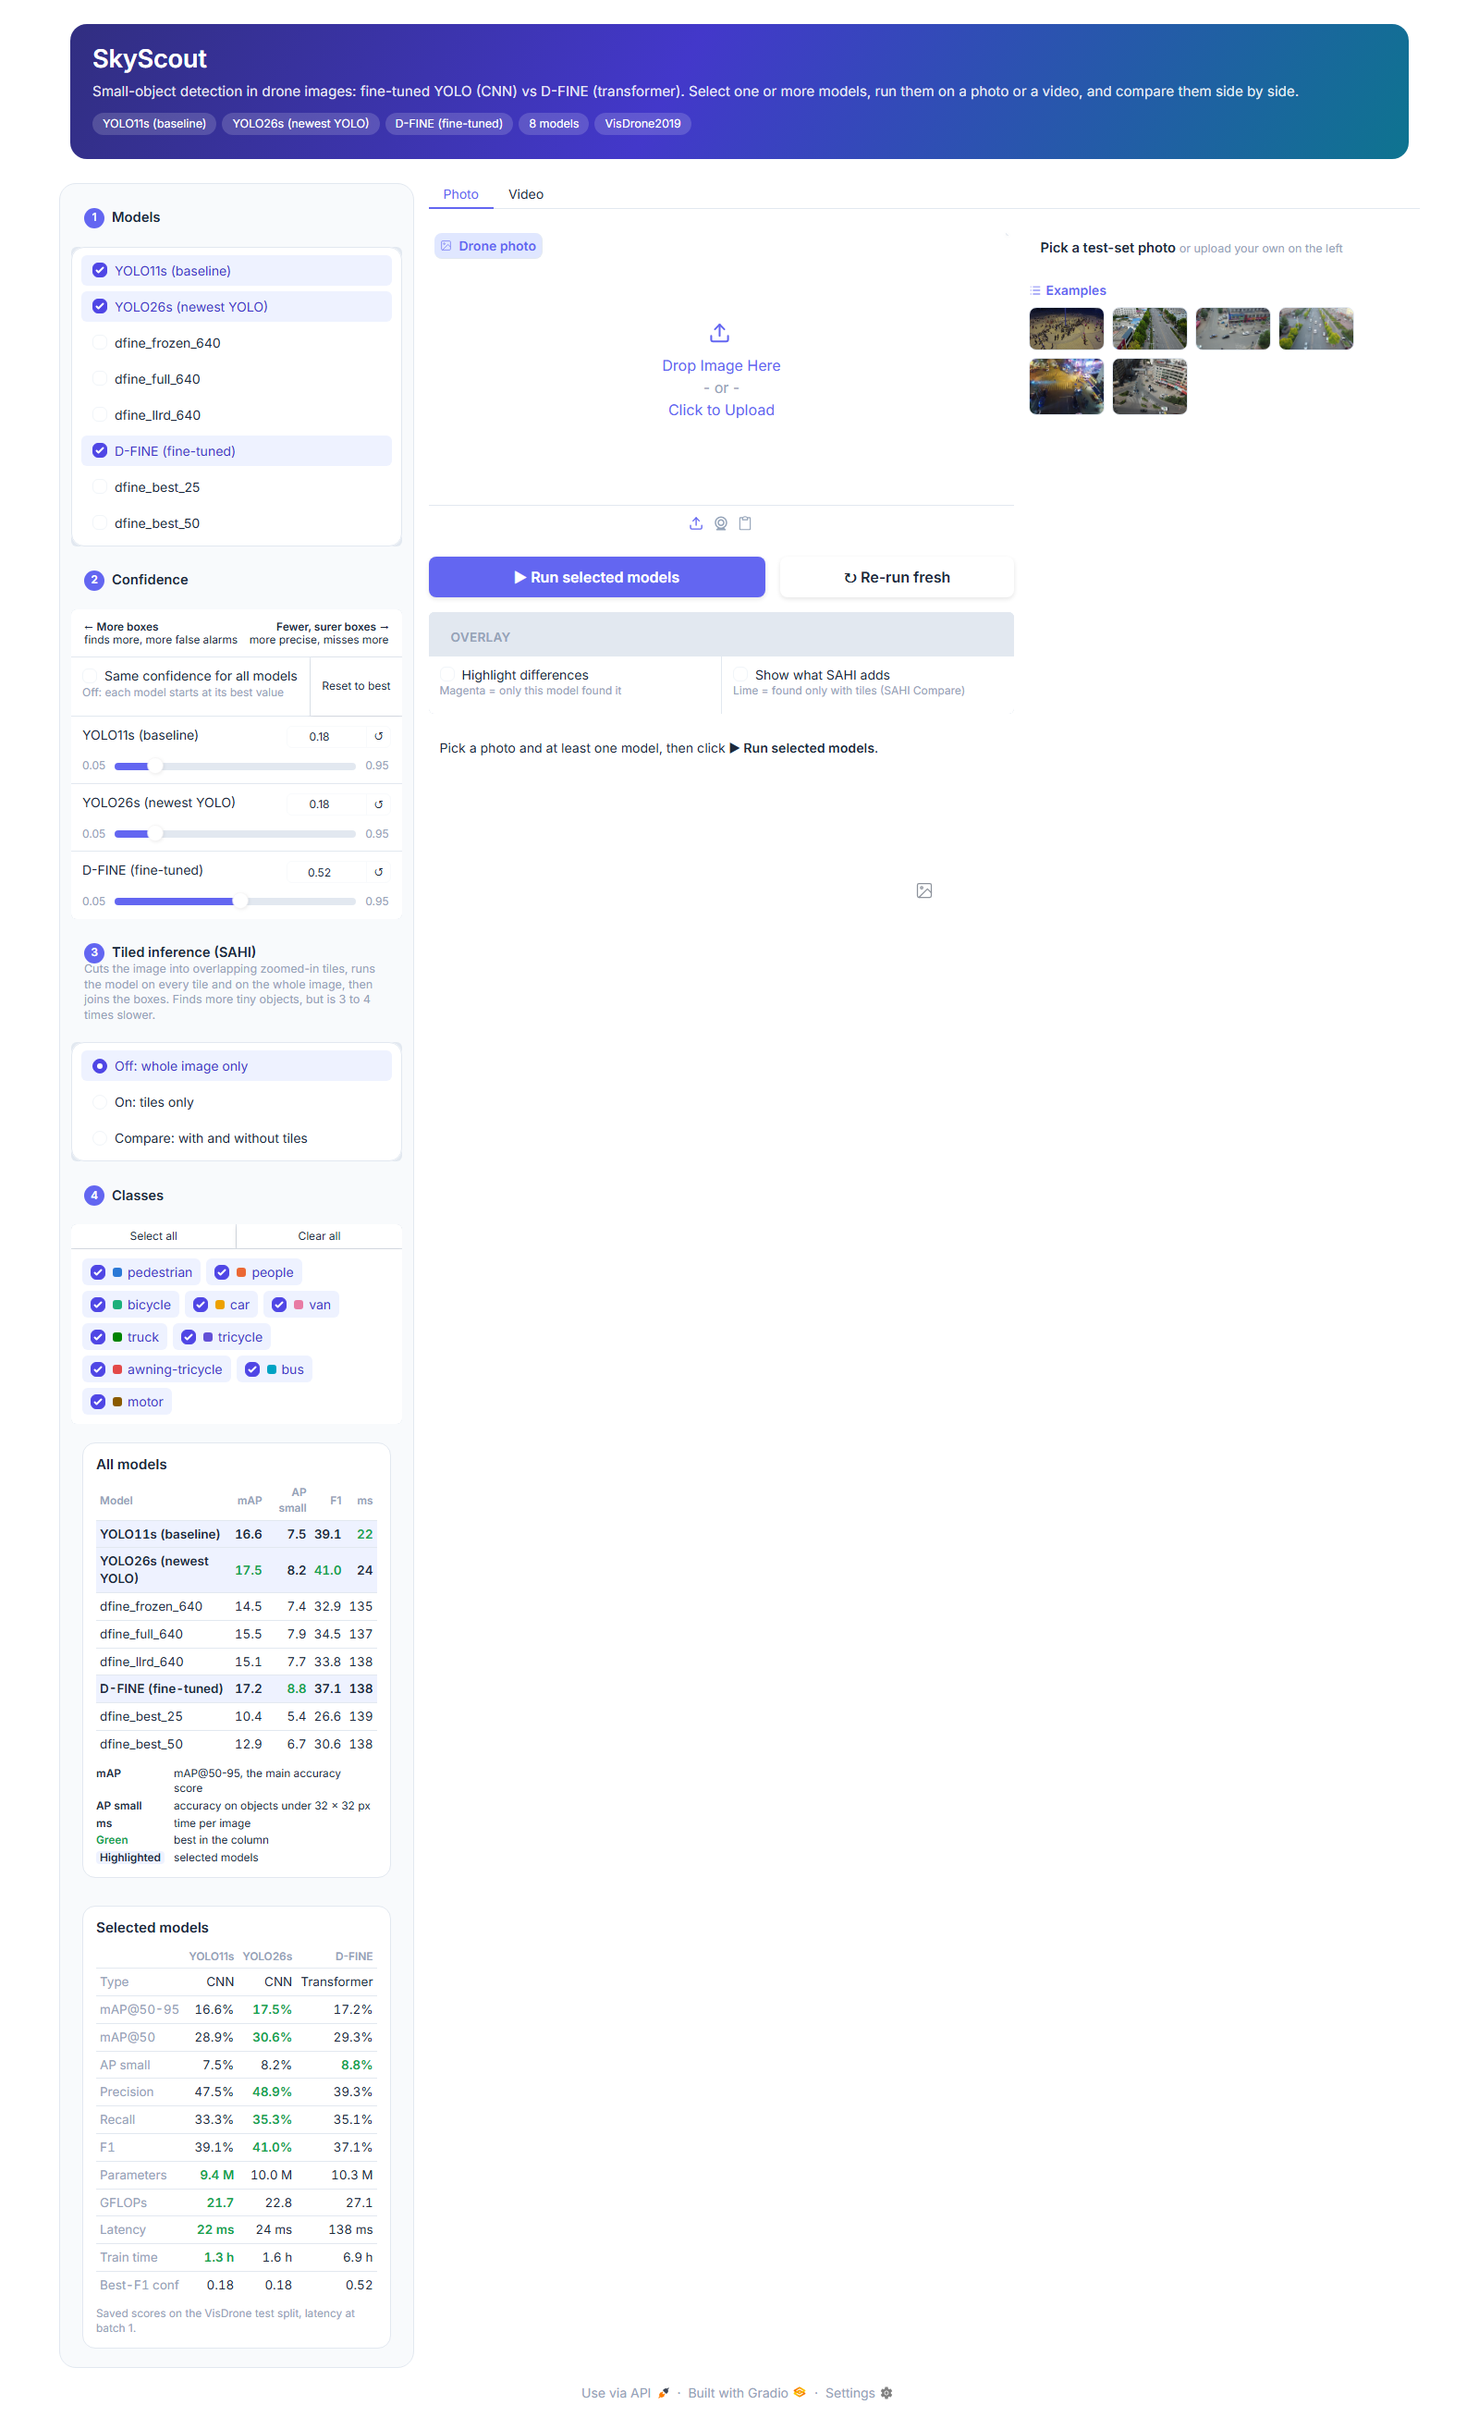
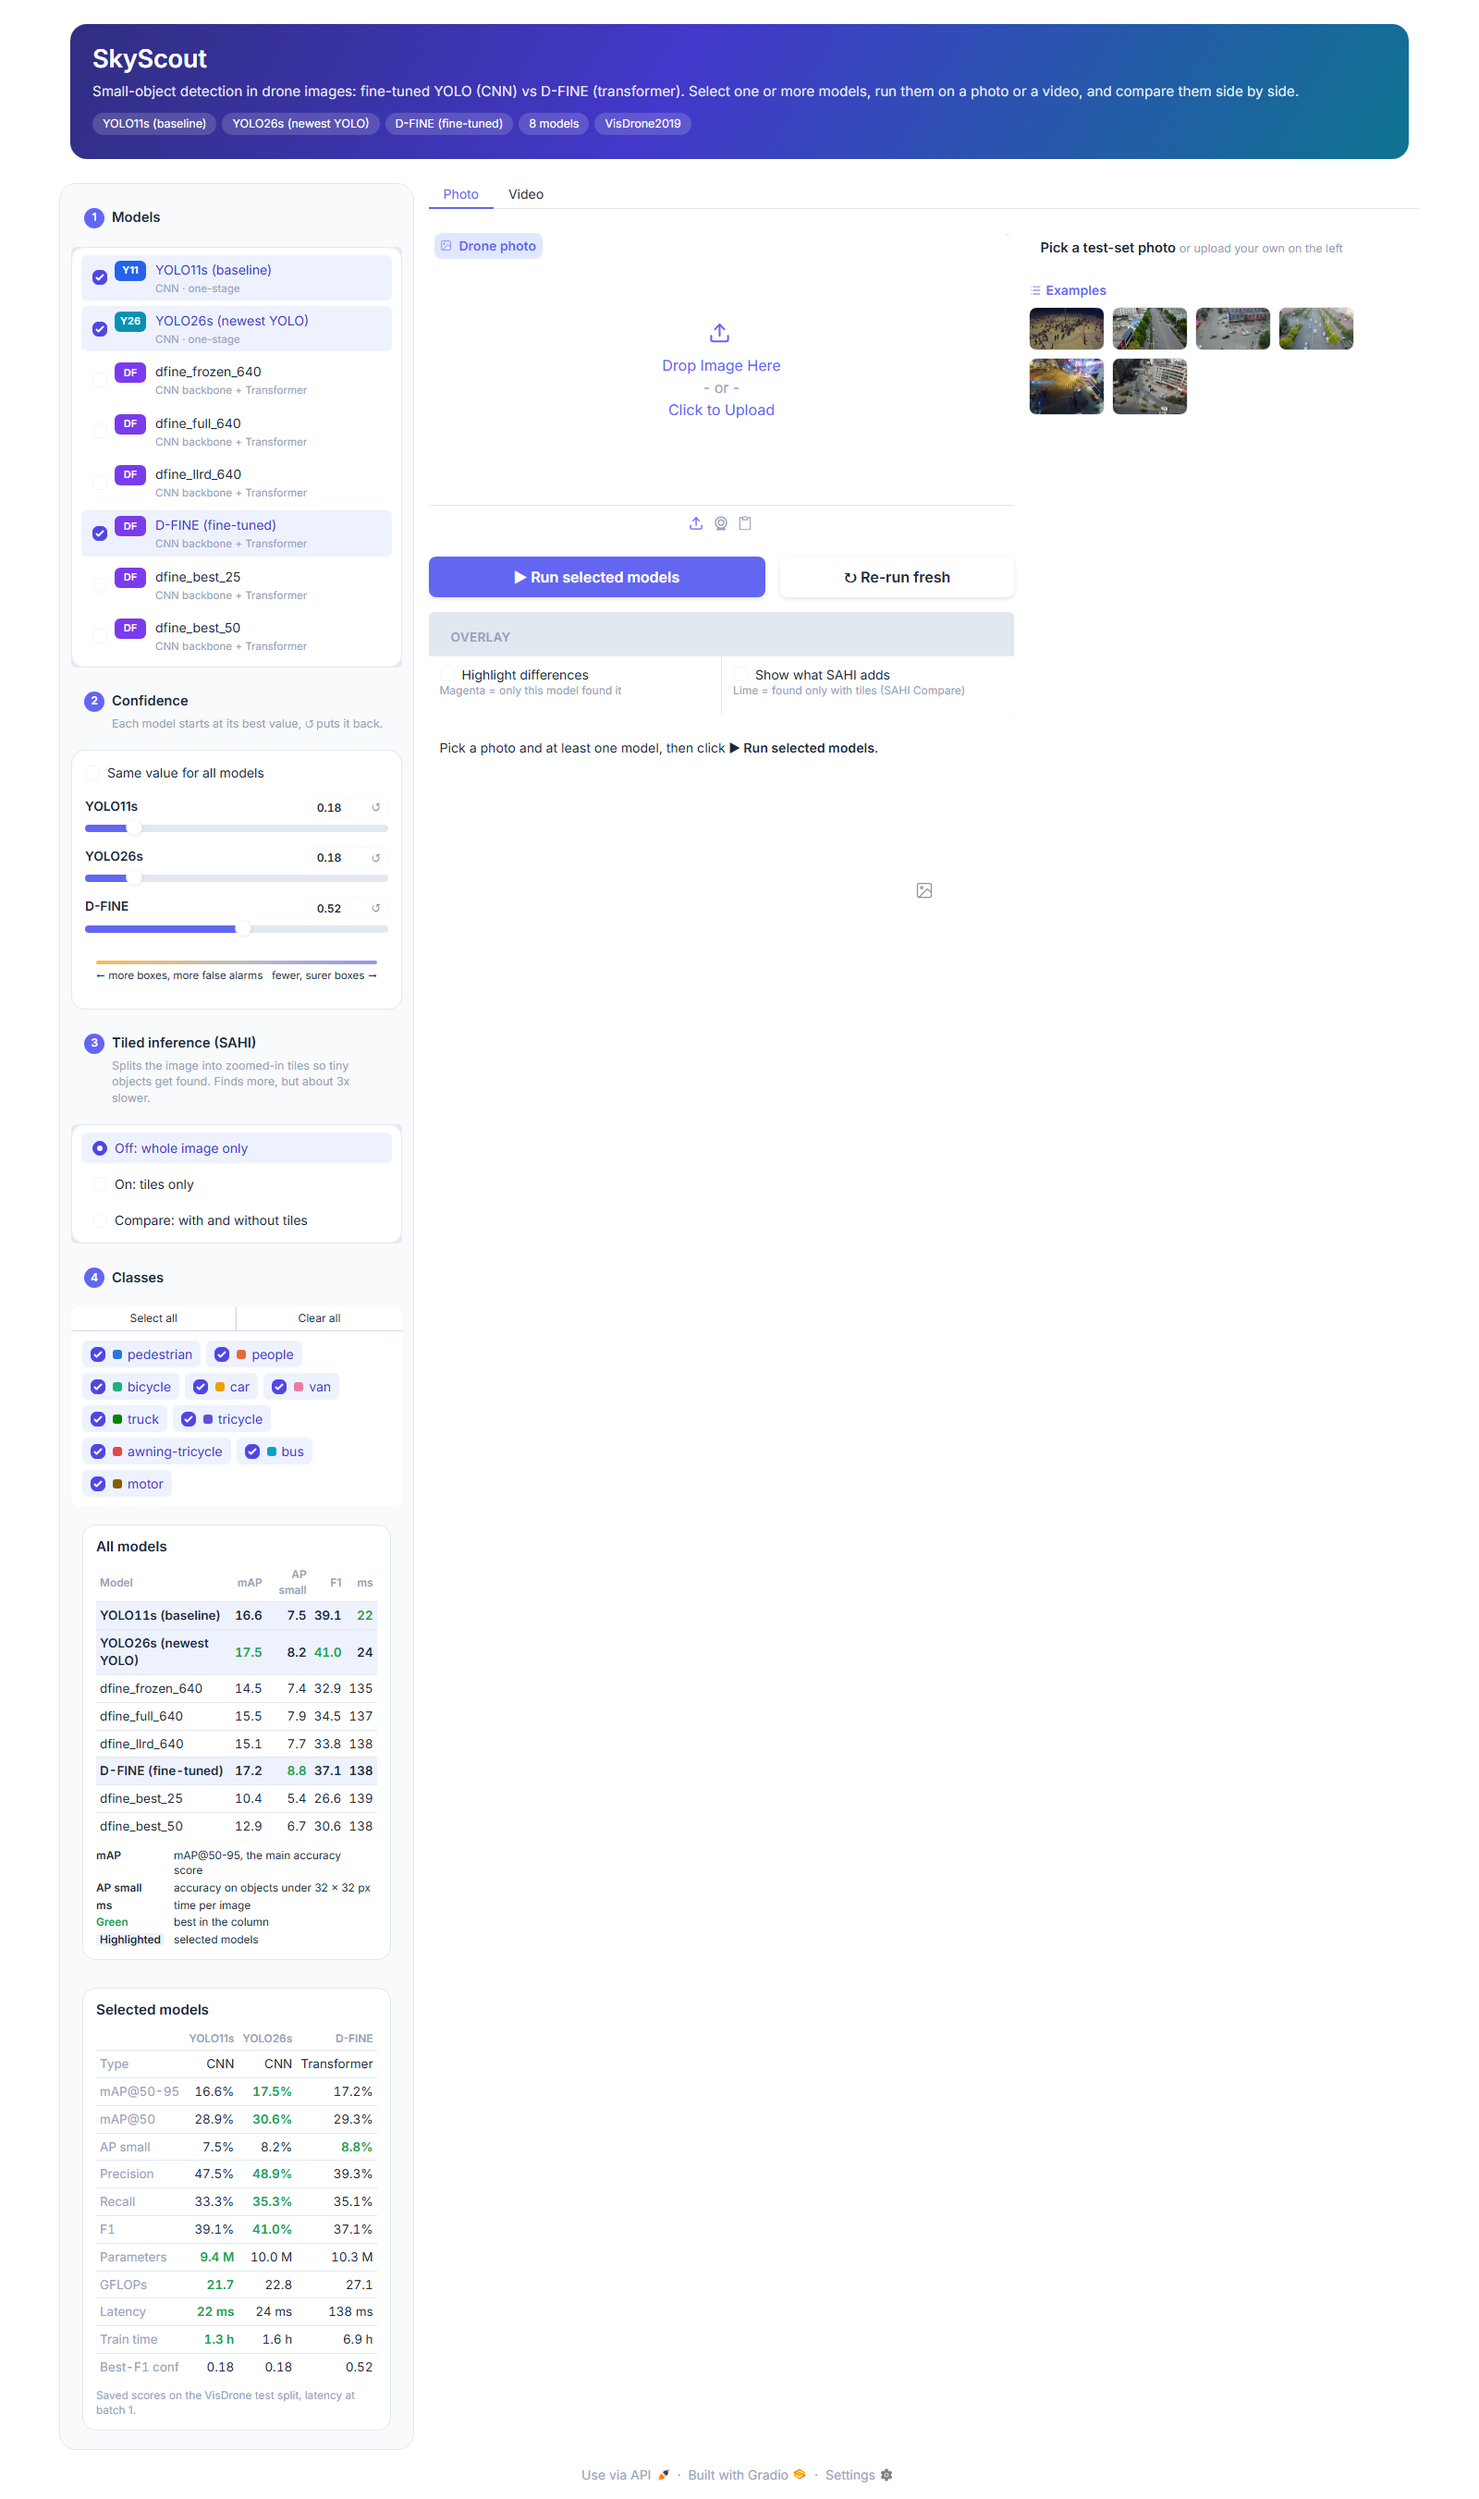
Settings panel: model badges, clean confidence card, tidier SAHI text
- Models show a Y11 / Y26 / DF badge and the architecture under the name
  (CNN one-stage, or CNN backbone + Transformer)
- Confidence is one clean card: same-value switch, slim sliders with their
  own reset, a gradient scale for the trade-off; the extra reset button and
  repeated min/max numbers are gone
- Shorter SAHI description with proper spacing under its title

diff --git a/skyscout.py b/skyscout.py
@@ -2385,6 +2385,14 @@ def short_label(name, sahi=False):
     return demo_label(name).split(' (')[0] + (' + SAHI' if sahi else '')
 
 
+def model_badge(name):
+    '''Monogram, badge color and architecture of a model in the demo.'''
+    if experiment(name)['family'] == 'yolo':
+        ver = ''.join(ch for ch in name.split('_')[0] if ch.isdigit())
+        return f'Y{ver}', '#2563eb' if ver == '11' else '#0891b2', 'CNN \\00b7  one-stage'
+    return 'DF', '#7c3aed', 'CNN backbone + Transformer'
+
+
 def model_facts(name):
     '''Saved test-set scores, one-GPU latency and train time of a model (read from results/, works without the dataset).'''
     split = CFG['evaluation']['report_split']
@@ -2632,7 +2640,7 @@ table.sk-abbr td {padding: 1px 4px 1px 0; border: 0 !important; vertical-align: 
 table.sk-abbr td:first-child {white-space: nowrap; font-weight: 600; color: var(--body-text-color); width: 1%; padding-right: 10px}
 table.sk-abbr td.best {color: #16a34a}
 .sk-selchip {background: var(--color-accent-soft); padding: 0 4px; border-radius: 4px}
-.sk-desc {font-size: .78rem; line-height: 1.35; color: var(--body-text-color-subdued); margin: -2px 2px 0}
+.sk-desc {font-size: .78rem; line-height: 1.4; color: var(--body-text-color-subdued); margin: 6px 4px 2px 32px}
 .sk-key {display: flex; flex-wrap: wrap; gap: 14px; font-size: .82rem; margin: 2px 0}
 .sk-key span {display: inline-flex; align-items: center; gap: 6px}
 .sk-key i {display: inline-block; width: 14px; height: 14px; border-radius: 3px}
@@ -2658,8 +2666,30 @@ table.sk-abbr td.best {color: #16a34a}
 .sk-res .sk-note {padding: 6px 12px 9px; margin: 0; border-top: 1px solid var(--border-color-primary)}
 .sk-res-title {font-weight: 650; font-size: .9rem; margin: 6px 2px 6px}
 .sk-dot {display: inline-block; width: 9px; height: 9px; border-radius: 3px; margin-right: 7px; vertical-align: 0}
-#sk-conf .block {background: var(--block-background-fill)}
+/* confidence: one clean card, slim sliders without the repeated min/max numbers */
+#sk-conf {border: 1px solid var(--border-color-primary); border-radius: 14px; background: var(--block-background-fill);
+          padding: 8px 14px 12px !important; gap: 2px !important}
+#sk-conf > .block, #sk-conf .block {border: 0 !important; box-shadow: none !important; background: transparent !important;
+          padding: 6px 0 !important; margin: 0 !important}
+#sk-conf .form {border: 0 !important; box-shadow: none !important; background: transparent !important; gap: 4px !important}
+#sk-conf .min_value, #sk-conf .max_value {display: none}
+#sk-conf .head {margin-bottom: 2px}
+#sk-conf .head span[data-testid=block-info] {font-size: .86rem; font-weight: 550}
+#sk-conf input[type=number] {width: 58px; text-align: center; font-weight: 650; font-variant-numeric: tabular-nums;
+          border-radius: 8px; padding: 2px 4px}
+#sk-conf .reset-button {opacity: .55}
+#sk-conf .reset-button:hover {opacity: 1}
 #sk-conf input[type=range] {accent-color: var(--color-accent)}
+.sk-scale2 {margin-top: 6px}
+.sk-scale2 .bar {height: 4px; border-radius: 4px; background: linear-gradient(90deg, #f59e0b 0%, #a3a3a3 50%, #6366f1 100%); opacity: .7}
+.sk-scale2 .ends {display: flex; justify-content: space-between; font-size: .72rem; color: var(--body-text-color-subdued); margin-top: 4px}
+/* models: a badge in front of each name and the architecture under it (set per model in launch_demo) */
+#sk-models label span {line-height: 1.25}
+#sk-models label span::before {display: inline-flex; align-items: center; justify-content: center; width: 34px; height: 22px;
+          border-radius: 6px; color: #fff; font-size: .68rem; font-weight: 750; letter-spacing: .02em; margin-right: 10px;
+          vertical-align: middle}
+#sk-models label span::after {display: block; font-size: .72rem; font-weight: 400; color: var(--body-text-color-subdued);
+          margin: 1px 0 0 44px}
 '''
 # one colored square per class in the class filter, same colors as the boxes
 DEMO_CSS += ''.join(f'#sk-classes label:nth-child({k + 1}) span::before {{content: ""; display: inline-block; width: 10px; '
@@ -2910,20 +2940,18 @@ def launch_demo(name=None, share=None):
                 gr.HTML('<div class="sk-step"><b>1</b>Models</div>')
                 models = gr.CheckboxGroup([(demo_label(n), n) for n in choices], value=default, show_label=False,
                                           elem_id='sk-models', elem_classes='sk-box')
-                gr.HTML('<div class="sk-step"><b>2</b>Confidence</div>')
-                with gr.Group(elem_id='sk-conf'):
-                    gr.HTML('<div class="sk-scale"><span>&larr; <b>More boxes</b><br>finds more, more false alarms</span>'
-                            '<span><b>Fewer, surer boxes</b> &rarr;<br>more precise, misses more</span></div>')
-                    with gr.Row(equal_height=True):
-                        same = gr.Checkbox(value=False, label='Same confidence for all models', scale=3,
-                                           info='Off: each model starts at its best value')
-                        reset = gr.Button('Reset to best', size='sm', scale=1, min_width=90)
+                gr.HTML('<div class="sk-step"><b>2</b>Confidence</div>'
+                        '<div class="sk-desc">Each model starts at its best value, &#8634; puts it back.</div>')
+                with gr.Column(elem_id='sk-conf'):
+                    same = gr.Checkbox(value=False, label='Same value for all models')
                     shared = gr.Slider(0.05, 0.95, value=best_conf(default[0]), step=0.01, label='All models', visible=False)
-                    sliders = [gr.Slider(0.05, 0.95, value=best_conf(n), step=0.01, label=demo_label(n), visible=n in default)
+                    sliders = [gr.Slider(0.05, 0.95, value=best_conf(n), step=0.01, label=short_label(n), visible=n in default)
                                for n in choices]
+                    gr.HTML('<div class="sk-scale2"><div class="bar"></div><div class="ends">'
+                            '<span>&larr; more boxes, more false alarms</span><span>fewer, surer boxes &rarr;</span></div></div>')
                 gr.HTML('<div class="sk-step"><b>3</b>Tiled inference (SAHI)</div>'
-                        '<div class="sk-desc">Cuts the image into overlapping zoomed-in tiles, runs the model on every tile '
-                        'and on the whole image, then joins the boxes. Finds more tiny objects, but is 3 to 4 times slower.</div>')
+                        '<div class="sk-desc">Splits the image into zoomed-in tiles so tiny objects get found. '
+                        'Finds more, but about 3x slower.</div>')
                 sahi_mode = gr.Radio(sahi_modes, value='Off', show_label=False, elem_id='sk-sahi', elem_classes='sk-box')
                 gr.HTML('<div class="sk-step"><b>4</b>Classes</div>')
                 with gr.Group():
@@ -2994,8 +3022,6 @@ def launch_demo(name=None, share=None):
         models.change(lambda sel: (models_table_html(choices, sel), selected_table_html(sel)), models, [table_html, card])
         models.change(show_sliders, [models, same], [shared] + sliders)
         same.change(show_sliders, [models, same], [shared] + sliders)
-        reset.click(lambda sel: [gr.update(value=best_conf((sel or default)[0]))] + [gr.update(value=best_conf(n)) for n in choices],
-                    models, [shared] + sliders)
         all_btn.click(lambda: NAMES, None, classes)
         none_btn.click(lambda: [], None, classes)
         def photo_go(*a, progress=gr.Progress()):
@@ -3038,7 +3064,11 @@ def launch_demo(name=None, share=None):
                       checkbox_label_text_color_selected_dark='*primary_100', checkbox_label_border_color_selected_dark='*primary_500',
                       checkbox_label_shadow='none')
     # Recommended: on the server keep the default address and open it through an SSH tunnel
-    return app.launch(share=share, server_port=dc['server_port'], theme=theme, css=DEMO_CSS, head=SYNC_JS,
+    # badge and architecture tag for each model in the list, in list order
+    model_css = ''.join(f'#sk-models label:nth-child({i + 1}) span::before {{content: "{b}"; background: {c}}}\n'
+                        f'#sk-models label:nth-child({i + 1}) span::after {{content: "{t}"}}\n'
+                        for i, (b, c, t) in enumerate(map(model_badge, choices)))
+    return app.launch(share=share, server_port=dc['server_port'], theme=theme, css=DEMO_CSS + model_css, head=SYNC_JS,
                       allowed_paths=[str(data_dir()), str(DOWNLOADS / 'samples'), str(SAMPLES), str(RESULTS)])
 
 

diff --git a/README.md b/README.md
@@ -278,7 +278,7 @@ flowchart LR
 ```
 
 - **1 Models:** tick one or more. One click runs all of them.
-- **2 Confidence:** one slider per selected model, each starting at that model's best value (best F1 on the test set, the score scales differ between models). Tick **Same confidence for all models** for one shared slider, **Reset to best** puts them back. Left = more boxes (finds more, more false alarms), right = fewer, surer boxes (more precise, misses more).
+- **2 Confidence:** one slider per selected model, each starting at that model's best value (best F1 on the test set, the score scales differ between models). Tick **Same value for all models** for one shared slider, the ↺ button of a slider puts it back to the best value. Left = more boxes (finds more, more false alarms), right = fewer, surer boxes (more precise, misses more).
 - **3 Tiled inference (SAHI):** cuts the image into overlapping zoomed-in tiles, runs the model on each tile and on the whole image, then joins the boxes. Off, on, or **Compare**, which runs every model with and without tiles (second row of the picture).
 - **4 Classes:** the box colors. Turn classes off to hide them everywhere (pictures, counts, comparisons) without running the models again.
 - Under the settings: a table of all models (best value per column in green) and every score of the selected models side by side.
